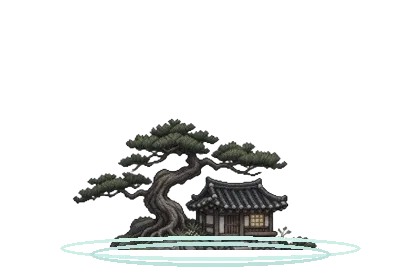
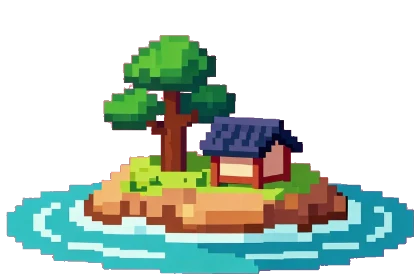
ComfyUI로 그린 섬·바다·징검돌로 교체, 섬 그림 변형 2종
Claude-Session: https://claude.ai/code/session_01DkTLAPuHj2BrKfeb7Y6Ei5

diff --git a/style.css b/style.css
@@ -61,7 +61,7 @@ form .primary{width:100%;min-height:50px;font-size:17px}
 @keyframes ripple{from{opacity:.9;scale:.6}to{scale:1.7;opacity:0}}
 .empty,.stone,.count{position:absolute;transform:translate(-50%,-50%);pointer-events:none}
 .empty{width:28px;height:10px;border:1.5px solid #e2f6f055;border-radius:50%}
-.stone{width:calc(var(--cell)*.42);aspect-ratio:64/36;background:url(stone.png) center/contain no-repeat;image-rendering:pixelated;z-index:1}
+.stone{width:calc(var(--cell)*.42);aspect-ratio:192/108;background:url(stone.webp) center/contain no-repeat;image-rendering:pixelated;z-index:1}
 .count{z-index:3;background:#fff8ec;color:#5c3a18;border:1px solid #8a5a2b;border-radius:10px;font-size:12px;font-weight:700;padding:0 6px;line-height:18px}
 .walker{position:absolute;width:calc(var(--cell)*.42);height:auto;z-index:5;transform:translate(-50%,-70%);image-rendering:pixelated;filter:drop-shadow(0 3px 3px #0d2a33aa);pointer-events:none;animation:bob .32s steps(2) infinite}
 @keyframes bob{50%{margin-top:-3px}}
@@ -93,3 +93,5 @@ body.host .bar b{font-size:22px}
 @media(max-width:550px){main{padding:12px 10px 32px}.paper{margin:8px auto}footer button{font-size:14px;flex:1}}
 @media(prefers-reduced-motion:reduce){*,*:before{animation:none!important}#lines .built{stroke-dashoffset:0}}
 body.host .isle span{font-size:15px;padding:2px 10px}body.host .count{font-size:14px}
+
+.isle.sunk img{filter:saturate(.35) brightness(.85) drop-shadow(0 4px 3px #0d2a3355);opacity:.85}

diff --git a/app.js b/app.js
@@ -31,7 +31,9 @@ const el = (tag, text) => Object.assign(document.createElement(tag), {textConten
 function button(text, fn, cls){ const b = el('button', text); b.type = 'button'; b.onclick = fn; if (cls) b.className = cls; return b; }
 function view(id){ for (const page of ['intro','board','mine']) $(page).hidden = page !== id; if (id === 'board') draw(); if (id === 'mine') list(); scrollTo(0, 0); }
 let statusTimer; function tell(s, ms = 2400){ $('status').textContent = s; clearTimeout(statusTimer); if (s) statusTimer = setTimeout(() => $('status').textContent = '', ms); }
-const isleImage = r => r.sunk ? 'isle-sunk.webp' : r.type === '장벽' ? 'isle-wall.webp' : 'isle-think.webp';
+// 같은 종류의 섬도 두 가지 그림 중 하나로 (id로 정해져서 모든 기기에서 같음)
+const variant = id => [...String(id)].reduce((a, ch) => a + ch.charCodeAt(0), 0) % 2 ? '-2' : '';
+const isleImage = r => r.sunk ? 'isle-sunk.webp' : (r.type === '장벽' ? 'isle-wall' : 'isle-think') + variant(r.id) + '.webp';
 
 /* ---------- 확인 팝업 (브라우저 기본 confirm 대신) ---------- */
 function ask(text, ok = '확인'){

diff --git a/README.md b/README.md
@@ -33,12 +33,12 @@
 
 | 파일 | 용도 |
 |---|---|
-| `isle-think.webp` | '돌아보게 된 생각' 섬 |
-| `isle-wall.webp` | '우리 주변의 장벽' 섬 (돌담과 울타리) |
+| `isle-think.webp`, `isle-think-2.webp` | '돌아보게 된 생각' 섬 (두 가지 중 하나가 섬마다 정해짐) |
+| `isle-wall.webp`, `isle-wall-2.webp` | '우리 주변의 장벽' 섬 |
 | `isle-sunk.webp` | 가라앉은 섬 |
 | `sea-wide.webp`, `sea-tall.webp` | 바다 배경 (가로 / 세로) |
-| `stone.png` | 징검돌 |
+| `stone.webp` | 징검돌 |
 | `og.png`, `favicon.png` | 링크 미리보기, 아이콘 |
 | `assets/characters/*.png` | 캐릭터 20종 |
 
-바다, 징검돌, 장벽 섬, 가라앉은 섬, 링크 미리보기는 코드로 직접 그린 임시 픽셀아트예요. 더 좋은 그림으로 바꾸고 싶으면 같은 파일 이름으로 덮어쓰면 돼요. 섬 그림은 420×280 크기에 투명 배경이어야 해요.
+섬·바다·징검돌 그림은 ComfyUI(Z-Image Turbo)로 만들고, 단색 배경을 지워 투명하게 처리했어요. 섬 그림을 바꾸려면 420×280 크기에 투명 배경으로 같은 파일 이름에 덮어쓰면 돼요.
